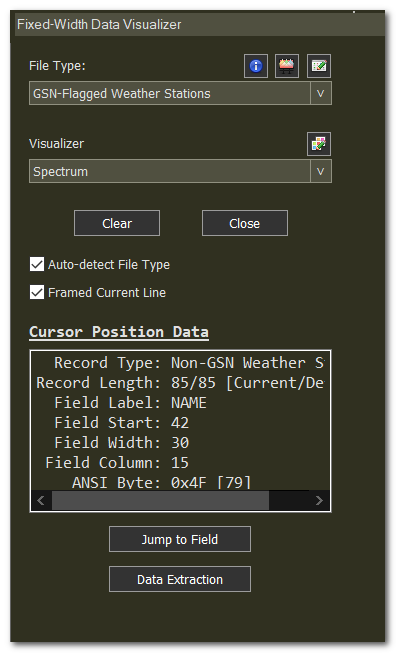
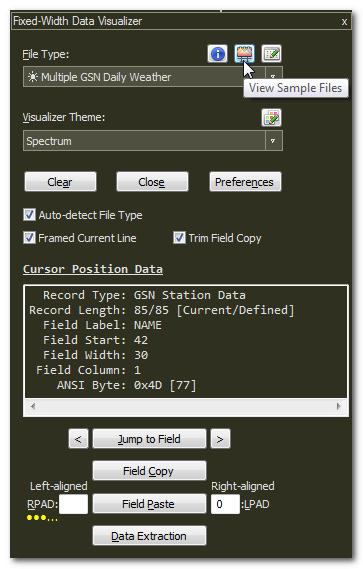
Implemented Preferences dialog

diff --git a/src/Resources/localization.h b/src/Resources/localization.h
@@ -22,7 +22,8 @@
 #define VIZ_PANEL_FILETYPE_LABEL    L"&File Type:"
 #define VIZ_PANEL_THEME_LABEL       L"&Visualizer Theme:"
 #define VIZ_PANEL_CLEAR_BUTTON      L"Cle&ar"
-#define VIZ_PANEL_CLOSE             L"C&lose"
+#define VIZ_PANEL_CLOSE             L"Clos&e"
+#define VIZ_PANEL_PREFERENCES       L"Prefere&nces"
 #define VIZ_PANEL_AUTO_DETECT_FT    L"Auto-detect File Type"
 #define VIZ_PANEL_MCBS_OVERRIDE     L"Multi-Byte Chars"
 #define VIZ_PANEL_CARET_FRAMED      L"Framed Current Line"
@@ -40,7 +41,7 @@
 #define VIZ_PANEL_FILE_SAMPLES_TIP  L"View Sample Files"
 #define VIZ_PANEL_FILE_CONFIG_TIP   L"Open File Type Metadata Editor"
 #define VIZ_PANEL_THEME_CONFIG_TIP  L"Open Visualizer Theme Editor"
-#define VIZ_PANEL_CLEAR_BTN_TIP     L"If \"Auto-detect File Type\" option is:\r\n● Checked: Redo the file type detection and visualization.\r\n● Not checked: Clear the document's fixed-width visualization."
+#define VIZ_PANEL_CLEAR_BTN_TIP     L"If \"Auto-detect File Type\" option is:\r\n● Checked: Redo the file type detection and visualization.\r\n● Not checked: Clear the document's fixed-width visualization.\r\n\r\nTo always clear visualization, modify the setting in \"Preferences\"."
 #define VIZ_PANEL_FIELD_TRIM_TIP    L"When copying a field, trim padding character(s) on either the left or right,\r\nbased on which field edge is closer to the cursor position."
 #define VIZ_PANEL_FIELD_LEFT_TIP    L"Move cursor to the left edge of the current field.\r\n\r\n● If already at the left edge of the field, the cursor will be moved to the left edge of the preceding field.\r\n\r\nAccessible via keyboard shortcut. See the plugin menu."
 #define VIZ_PANEL_FIELD_RIGHT_TIP   L"Move cursor to the right edge of the current field.\r\n\r\n● If already at the right edge of the field, the cursor will be moved to the right edge of the following field.\r\n\r\nAccessible via keyboard shortcut. See the plugin menu."
@@ -141,6 +142,7 @@
 #define FWVIZ_DEF_RECTHEME_HINT_HDR L"Record-type Theme"
 #define FWVIZ_DEF_RECTHEME_HINT_TXT L"Specify a different color theme than the file-type theme for select-few record types to make them distinctive.\r\n\r\nFor an example, see: 'Transaction Headers' inside the Samples » Treasury IPAC file.\r\n\r\nClick the (i) icon to view the online documentation."
 
+
 // Style Definition Component
 #define STYLE_DEF_GROUP_BOX         L"Style Definition"
 #define STYLE_DEF_BACK_LABEL        L"Back Color:"
@@ -150,6 +152,7 @@
 #define STYLE_DEF_PREVIEW_LABEL     L"Output:"
 #define STYLE_DEF_HEX_TITLE         L"Hexadecimal characters only!"
 #define STYLE_DEF_HEX_CHARS_ONLY    L"This edit field will only accept characters in the following range: 0-9|A-F|a-f"
+
 
 // Theme Dialog
 #define THEME_DIALOG_TITLE          L"Visualizer Theme Editor"
@@ -189,6 +192,7 @@
 #define THEME_OPEN_BKUP_CONFIG_DLG  L"Open Backup Themes File"
 #define THEME_SAVE_BKUP_CONFIG_DLG  L"Save Backup Themes File"
 
+
 // Define File Type Dialog
 #define FIELD_TYPE_DEF_DLG_TITLE    L"Define Field Types"
 #define FIELD_TYPE_GROUP_BOX        L"Field &Types"
@@ -199,6 +203,7 @@
 #define FIELD_TYPE_REGEX_LABEL      L"Field &Validation Regex:"
 #define FIELD_STYLE_DEF_SAVE_BTN    L"&Save"
 #define FIELD_STYLE_DEF_RESET_BTN   L"&Reset"
+
 
 // Exim File Type Dialog
 #define FT_EXIM_EXTRACT_FT_TITLE    L"Extract File Type Metadata"
@@ -211,6 +216,17 @@
 #define FT_EXIM_SAVE_FILE_BTN       L"&Save to a File"
 #define FT_EXIM_APPEND_BTN          L"&Append File Type"
 #define FT_EXIM_CLOSE_BTN           L"&Close"
+
+
+// Preferences Dialog
+#define PREFERENCES_DIALOG_TITLE    L"Preferences"
+#define PREFERENCES_CLEARVIZ_AUTO   L"\"Clear\" button click unchecks Auto-detect File Type"
+#define PREFERENCES_CLEARVIZ_PANEL  L"Closing plugin panel clears visualization"
+#define PREFERENCES_MBCHARS_STATE   L"Show Multi-byte checkbox in plugin panel"
+#define PREFERENCES_CLOSE_BTN       L"&Close"
+#define PREF_CLEARVIZ_AUTO_TIP      L"● When this box is unchecked, clicking the \"Clear\" button will redo the auto-file detection, followed by document visualization.\r\n\r\n● When this box is checked, clicking the \"Clear\" button will also uncheck the \"Auto-detect File Type\" checkbox, and also clear the document visualization."
+#define PREF_CLEARVIZ_PANEL_TIP      L"● Leave this box unchecked if you are only closing the plugin panel for more document viewing area but wish to retain the document visualization.\r\n\r\n● When this box is checked, closing the plugin panel will also clear the document visualization."
+#define PREF_MBCHARS_STATE_TIP      L"● When this box is checked, the \"Multi-Byte Chars\" 3-state checkbox will be displayed on the plugin panel. The 3-state checkbox is useful for quickly toggling between the single-byte and multi-byte modes of visualization of a document with multi-byte character data."
 
 
 // Jump Field Dialog

diff --git a/src/Dialogs/VisualizerPanel.cpp b/src/Dialogs/VisualizerPanel.cpp
@@ -1,4 +1,5 @@
 #include "VisualizerPanel.h"
+#include "PreferencesDialog.h"
 //#include "FieldTypeDialog.h"
 #include "JumpToField.h"
 #include "DataExtractDialog.h"
@@ -7,8 +8,9 @@
 extern HINSTANCE _gModule;
 extern SubmenuManager _submenu;
 extern FuncItem pluginMenuItems[MI_COUNT];
-
 //extern FieldTypeDialog _fieldTypeDlg;
+
+PreferencesDialog _prefsDlg;
 JumpToField _jumpDlg;
 DataExtractDialog _dataExtractDlg;
 
@@ -62,6 +64,10 @@ INT_PTR CALLBACK VisualizerPanel::run_dlgProc(UINT message, WPARAM wParam, LPARA
       case IDCLOSE:
          setFocusOnEditor();
          ShowVisualizerPanel(FALSE);
+         break;
+
+      case IDC_VIZPANEL_PREFERENCES_BTN:
+         _prefsDlg.doDialog((HINSTANCE)_gModule);
          break;
 
       case IDC_VIZPANEL_AUTO_DETECT_FT:
@@ -236,7 +242,7 @@ void VisualizerPanel::initPanel() {
    SetWindowText(GetDlgItem(_hSelf, IDC_VIZPANEL_PASTE_RPAD_FIELD), _configIO.getPreference(PREF_PASTE_RPAD).c_str());
    SetWindowText(GetDlgItem(_hSelf, IDC_VIZPANEL_PASTE_LPAD_FIELD), _configIO.getPreference(PREF_PASTE_LPAD).c_str());
 
-   addTooltip(_hSelf, IDC_VIZPANEL_CLEAR_BTN, NULL, VIZ_PANEL_CLEAR_BTN_TIP, FW_TIP_SHORT, FALSE);
+   addTooltip(_hSelf, IDC_VIZPANEL_CLEAR_BTN, NULL, VIZ_PANEL_CLEAR_BTN_TIP, FW_TIP_MEDIUM, FALSE);
    addTooltip(_hSelf, IDC_VIZPANEL_FIELD_COPY_TRIM, NULL, VIZ_PANEL_FIELD_TRIM_TIP, FW_TIP_SHORT, FALSE);
 
    addTooltip(_hSelf, IDC_VIZPANEL_FIELD_LEFT_BUTTON, NULL, VIZ_PANEL_FIELD_LEFT_TIP, FW_TIP_SHORT, FALSE);
@@ -264,6 +270,7 @@ void VisualizerPanel::localize() {
    SetDlgItemText(_hSelf, IDC_VIZPANEL_THEME_LABEL, VIZ_PANEL_THEME_LABEL);
    SetDlgItemText(_hSelf, IDC_VIZPANEL_CLEAR_BTN, VIZ_PANEL_CLEAR_BUTTON);
    SetDlgItemText(_hSelf, IDCLOSE, VIZ_PANEL_CLOSE);
+   SetDlgItemText(_hSelf, IDC_VIZPANEL_PREFERENCES_BTN, VIZ_PANEL_PREFERENCES);
    SetDlgItemText(_hSelf, IDC_VIZPANEL_AUTO_DETECT_FT, VIZ_PANEL_AUTO_DETECT_FT);
    SetDlgItemText(_hSelf, IDC_VIZPANEL_MCBS_OVERRIDE, VIZ_PANEL_MCBS_OVERRIDE);
    SetDlgItemText(_hSelf, IDC_VIZPANEL_CARET_FRAMED, VIZ_PANEL_CARET_FRAMED);
@@ -298,15 +305,7 @@ void VisualizerPanel::display(bool toShow) {
       _configIO.getPreferenceBool(PREF_ADFT) ? BST_CHECKED : BST_UNCHECKED);
    showCaretFramedState(_configIO.getPreferenceBool(PREF_CARET_FRAMED));
 
-   int showMCBS{ _configIO.getPreferenceBool(PREF_MBCHARS_SHOW, FALSE) ? SW_SHOW : SW_HIDE };
-   ShowWindow(GetDlgItem(_hSelf, IDC_VIZPANEL_MCBS_OVERRIDE), showMCBS);
-   ShowWindow(GetDlgItem(_hSelf, IDC_VIZPANEL_MCBS_OVERRIDE_IND), showMCBS);
-
-   wstring mbcState{ _configIO.getPreference(PREF_MBCHARS_STATE, "FT") };
-   if (mbcState == L"FT")
-      CheckDlgButton(_hSelf, IDC_VIZPANEL_MCBS_OVERRIDE, BST_INDETERMINATE);
-   else
-      CheckDlgButton(_hSelf, IDC_VIZPANEL_MCBS_OVERRIDE, (mbcState == L"Y") ? BST_CHECKED : BST_UNCHECKED);
+   initMBCharsCheckbox();
 
    CheckDlgButton(_hSelf, IDC_VIZPANEL_FIELD_COPY_TRIM,
       _configIO.getPreferenceBool(PREF_COPY_TRIM, FALSE) ? BST_CHECKED : BST_UNCHECKED);
@@ -318,6 +317,18 @@ void VisualizerPanel::display(bool toShow) {
       SetFocus(hFTList);
    else
       setFocusOnEditor();
+}
+
+void VisualizerPanel::initMBCharsCheckbox() {
+   int showMCBS{ _configIO.getPreferenceBool(PREF_MBCHARS_SHOW, FALSE) ? SW_SHOW : SW_HIDE };
+   ShowWindow(GetDlgItem(_hSelf, IDC_VIZPANEL_MCBS_OVERRIDE), showMCBS);
+   ShowWindow(GetDlgItem(_hSelf, IDC_VIZPANEL_MCBS_OVERRIDE_IND), showMCBS);
+
+   wstring mbcState{ _configIO.getPreference(PREF_MBCHARS_STATE, "FT") };
+   if (mbcState == L"FT")
+      CheckDlgButton(_hSelf, IDC_VIZPANEL_MCBS_OVERRIDE, BST_INDETERMINATE);
+   else
+      CheckDlgButton(_hSelf, IDC_VIZPANEL_MCBS_OVERRIDE, (mbcState == L"Y") ? BST_CHECKED : BST_UNCHECKED);
 }
 
 void VisualizerPanel::setParent(HWND parent2set) {

diff --git a/src/Dialogs/PreferencesDialog.cpp b/src/Dialogs/PreferencesDialog.cpp
@@ -1,0 +1,71 @@
+#include "PreferencesDialog.h"
+#include "VisualizerPanel.h"
+
+constexpr int PREF_TIP_LONG{ 30 };
+
+extern VisualizerPanel _vizPanel;
+
+void PreferencesDialog::doDialog(HINSTANCE hInst) {
+   if (!isCreated()) {
+      Window::init(hInst, nppData._nppHandle);
+      create(IDD_PREFERENCES_DIALOG);
+   }
+
+   initCheckbox(IDC_PREF_CLEARVIZ_AUTO, PREF_CLEARVIZ_AUTO);
+   initCheckbox(IDC_PREF_CLEARVIZ_PANEL, PREF_CLEARVIZ_PANEL);
+   initCheckbox(IDC_PREF_MBCHARS_STATE, PREF_MBCHARS_SHOW);
+
+   Utils::addTooltip(_hSelf, IDC_PREF_CLEARVIZ_AUTO, NULL, PREF_CLEARVIZ_AUTO_TIP, PREF_TIP_LONG, TRUE);
+   Utils::addTooltip(_hSelf, IDC_PREF_CLEARVIZ_PANEL, NULL, PREF_CLEARVIZ_PANEL_TIP, PREF_TIP_LONG, TRUE);
+   Utils::addTooltip(_hSelf, IDC_PREF_MBCHARS_STATE, NULL, PREF_MBCHARS_STATE_TIP, PREF_TIP_LONG, TRUE);
+
+   if (_gLanguage != LANG_ENGLISH) localize();
+   goToCenter();
+
+   SendMessage(_hParent, NPPM_DMMSHOW, 0, (LPARAM)_hSelf);
+}
+
+INT_PTR PreferencesDialog::run_dlgProc(UINT message, WPARAM wParam, LPARAM /*lParam*/) {
+   switch (message) {
+   case WM_COMMAND:
+      switch LOWORD(wParam) {
+      case IDC_PREF_CLEARVIZ_AUTO:
+         setCheckbox(IDC_PREF_CLEARVIZ_AUTO, PREF_CLEARVIZ_AUTO);
+         break;
+
+      case IDC_PREF_CLEARVIZ_PANEL:
+         setCheckbox(IDC_PREF_CLEARVIZ_PANEL, PREF_CLEARVIZ_PANEL);
+         break;
+
+      case IDC_PREF_MBCHARS_STATE:
+         setCheckbox(IDC_PREF_MBCHARS_STATE, PREF_MBCHARS_SHOW);
+         _vizPanel.initMBCharsCheckbox();
+         break;
+
+      case IDCANCEL:
+      case IDCLOSE:
+         display(FALSE);
+         return TRUE;
+      }
+   }
+
+   return FALSE;
+}
+
+void PreferencesDialog::localize() {
+   SetWindowText(_hSelf, PREFERENCES_DIALOG_TITLE);
+   SetDlgItemText(_hSelf, IDC_PREF_CLEARVIZ_AUTO, PREFERENCES_CLEARVIZ_AUTO);
+   SetDlgItemText(_hSelf, IDC_PREF_CLEARVIZ_PANEL, PREFERENCES_CLEARVIZ_PANEL);
+   SetDlgItemText(_hSelf, IDC_PREF_MBCHARS_STATE, PREFERENCES_MBCHARS_STATE);
+   SetDlgItemText(_hSelf, IDCLOSE, PREFERENCES_CLOSE_BTN);
+}
+
+void PreferencesDialog::initCheckbox(int nIDButton, const string& preference) {
+   CheckDlgButton(_hSelf, nIDButton, _configIO.getPreferenceBool(preference) ? BST_CHECKED : BST_UNCHECKED);
+}
+
+void PreferencesDialog::setCheckbox(int nIDButton, const string& preference) {
+   bool checked{ IsDlgButtonChecked(_hSelf, nIDButton) == BST_CHECKED };
+
+   _configIO.setPreferenceBool(preference, checked);
+}

diff --git a/src/Resources/resource.h b/src/Resources/resource.h
@@ -1492,12 +1492,13 @@
 #define IDC_VIZPANEL_THEME_CONFIG       9006
 #define IDC_VIZPANEL_THEME_SELECT       9007
 #define IDC_VIZPANEL_CLEAR_BTN          9008
-#define IDB_VIZ_FILE_SAMPLES_BITMAP     9009
-#define IDB_VIZ_FILE_CONFIG_BITMAP      9010
-#define IDB_VIZ_COLOR_CONFIG_BITMAP     9011
-#define IDB_VIZ_INFO_BITMAP             9012
-#define IDB_VIZ_MOVE_DOWN_BITMAP        9013
-#define IDB_VIZ_MOVE_UP_BITMAP          9014
+#define IDC_VIZPANEL_PREFERENCES_BTN    9009
+#define IDB_VIZ_FILE_SAMPLES_BITMAP     9010
+#define IDB_VIZ_FILE_CONFIG_BITMAP      9011
+#define IDB_VIZ_COLOR_CONFIG_BITMAP     9012
+#define IDB_VIZ_INFO_BITMAP             9013
+#define IDB_VIZ_MOVE_DOWN_BITMAP        9014
+#define IDB_VIZ_MOVE_UP_BITMAP          9015
 #define IDC_VIZPANEL_FIELD_LABEL        9021
 #define IDC_VIZPANEL_FIELD_INFO         9022
 #define IDC_VIZPANEL_JUMP_FIELD_BTN     9023
@@ -1813,6 +1814,10 @@
 #define IDC_FIELD_STYLE_DEF_SAVE_BTN    9824
 #define IDC_FIELD_STYLE_DEF_RESET_BTN   9825
 #define IDC_FIELD_TYPE_INFO_BUTTON      9826
+#define IDD_PREFERENCES_DIALOG          9900
+#define IDC_PREF_CLEARVIZ_AUTO          9901
+#define IDC_PREF_CLEARVIZ_PANEL         9902
+#define IDC_PREF_MBCHARS_STATE          9903
 #define IDC_STYLE_DEF_GROUP_BOX         10001
 #define IDC_STYLE_DEF_BACK_LABEL        10002
 #define IDC_STYLE_DEF_BACK_EDIT         10003

diff --git a/src/Dialogs/PreferencesDialog.h b/src/Dialogs/PreferencesDialog.h
@@ -1,0 +1,21 @@
+#pragma once
+
+#include "../Utils.h"
+#include "../ConfigIO.h"
+#include "../NPP/StaticDialog.h"
+
+extern NppData nppData;
+extern ConfigIO _configIO;
+
+class PreferencesDialog : public StaticDialog {
+public:
+   PreferencesDialog() : StaticDialog() {};
+   void doDialog(HINSTANCE hInst);
+
+private:
+   INT_PTR CALLBACK run_dlgProc(UINT message, WPARAM wParam, LPARAM lParam);
+   void localize();
+   void initCheckbox(int nIDButton, const string& preference);
+   void setCheckbox(int nIDButton, const string& preference);
+};
+

diff --git a/src/Dialogs/VisualizerPanel.h b/src/Dialogs/VisualizerPanel.h
@@ -48,6 +48,7 @@ public:
 
    void initPanel();
    virtual void display(bool toShow = TRUE);
+   void initMBCharsCheckbox();
    void setParent(HWND parent2set);
    void setFocusOnEditor();
    void showCaretFramedState(bool framed);
